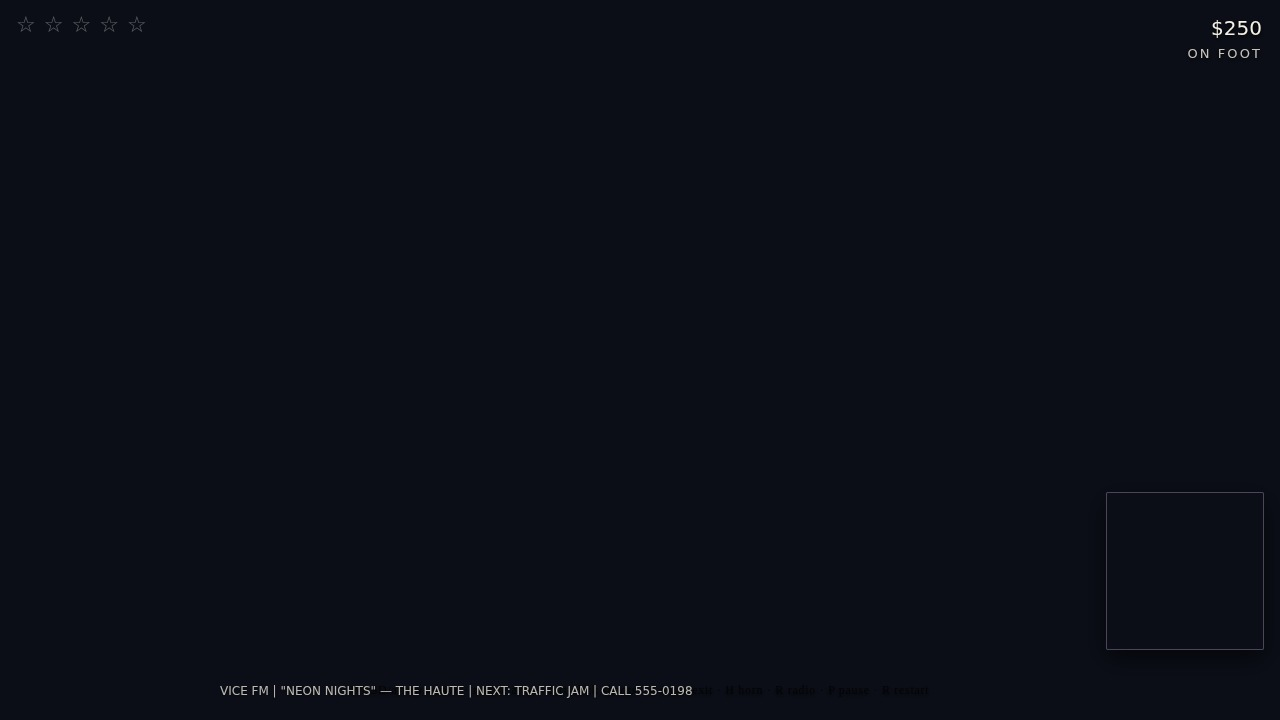
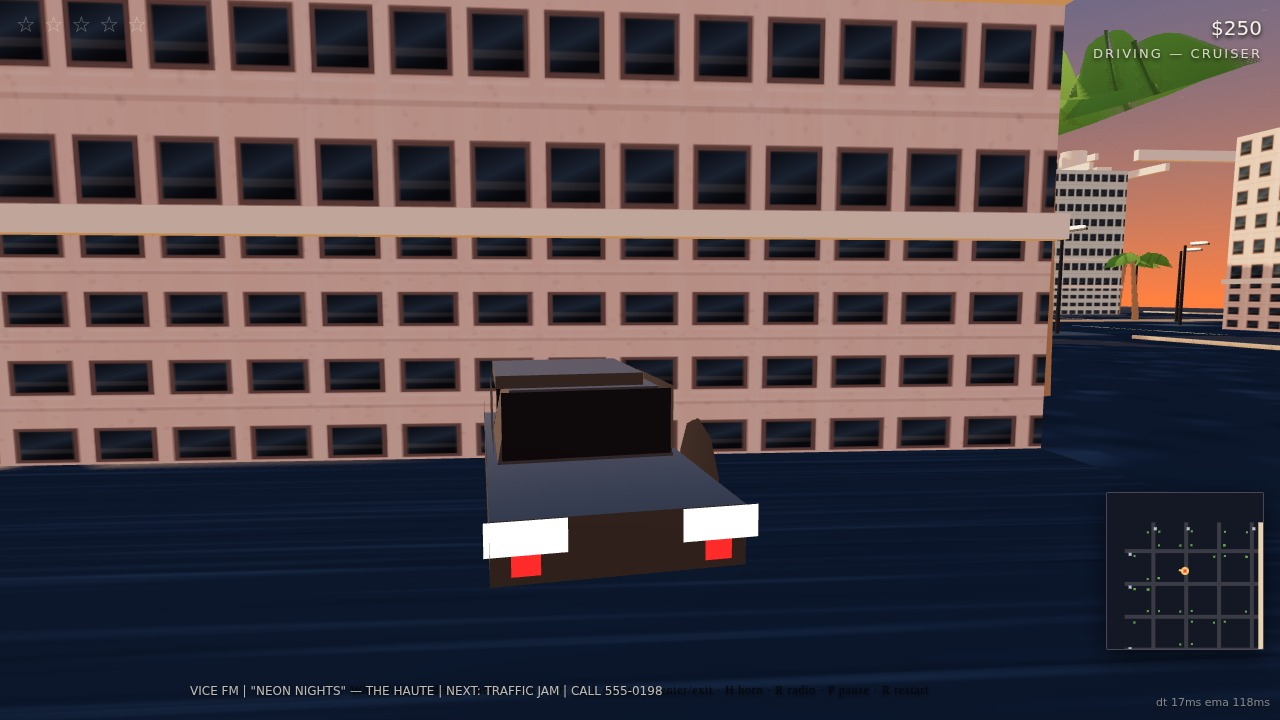
polish: headlight glow mesh, ped route index fix, re-shoot start/play

diff --git a/game/src/world.js b/game/src/world.js
@@ -6,7 +6,7 @@ import { Cars, CAR_TYPES } from './cars.js';
 
 export const TEAM = { PLAYER: 0, PED: 1, COP: 2 };
 
-export function createWorld(city, trafficRoutes) {
+export function createWorld(city, trafficRoutes, audio) {
   const colliders = city.colliders.slice();
   const pedRoutes = city.pedRoutes.slice();
   const cars = new Cars();
@@ -78,10 +78,11 @@ export function createWorld(city, trafficRoutes) {
       if (perBlock[ri] >= PEDS_PER_BLOCK) continue; // this block's ped budget is already spent
       perBlock[ri] += 1;
       const route = pedRoutes[ri];
-      const start = route[Math.floor(Math.random() * route.length)];
+      const si = Math.floor(Math.random() * route.length);
+      const start = route[si];
       peds.push({
         x: start.x, z: start.z, yaw: Math.random() * Math.PI * 2, speed: PEDS.walk,
-        route, routeIndex: ri,
+        route, routeIndex: si,
         state: 'walk', panic: 0, health: 40, team: TEAM.PED, radius: 0.34,
         money: Math.floor(15 * (0.7 + Math.random() * 0.9)),
       });

diff --git a/game/src/cars.js b/game/src/cars.js
@@ -94,6 +94,7 @@ function carTypeMesh(type, count) {
   headGeo.setAttribute('position', new THREE.Float32BufferAttribute(headPts, 3));
   headGeo.computeVertexNormals();
   const headGlow = new THREE.MeshBasicMaterial({ color: 0xfff4ea, transparent: true, depthWrite: false, blending: THREE.AdditiveBlending, toneMapped: false });
+  const headlights = instanced(headGeo, headGlow, Array(count).fill(new THREE.Matrix4()));
 
   const lightGeo = new THREE.BufferGeometry();
   lightGeo.setAttribute('position', new THREE.Float32BufferAttribute(lightPts, 3));

diff --git a/game/src/main.js b/game/src/main.js
@@ -30,7 +30,7 @@ let audioStarted = false;
 
 const city = buildCity(seed, createRandom(seed));
 const traffic = trafficRoutes();
-const world = createWorld(city, traffic);
+const world = createWorld(city, traffic, audio);
 
 render.setCity(city.group);
 render.setCars(world.cars);
